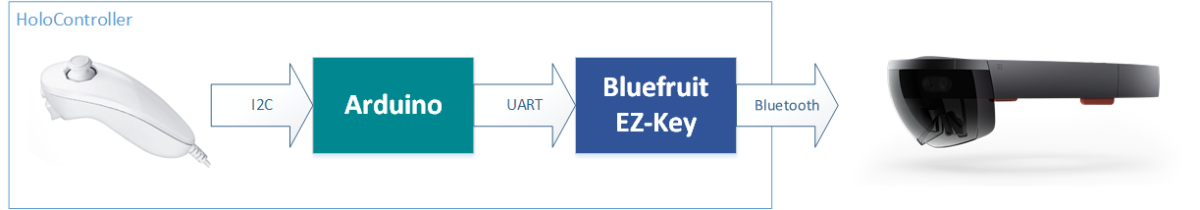
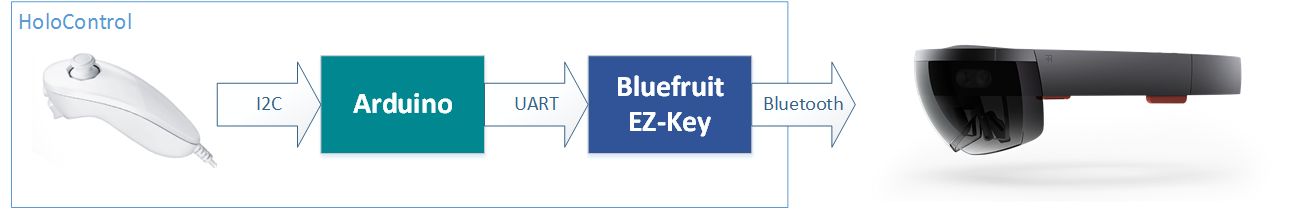
Add link to the list of USB HID codes

diff --git a/README.md b/README.md
@@ -5,16 +5,17 @@ HoloLens input device based on Wii Nunchuk controller.
 - Low latency, reaction time < 1/20 second
 - Easy to use in Unity, no external dependencies
 
-## Demo
+## Demo Video
 
 [![Alt text](https://img.youtube.com/vi/75GZE48Ib2U/0.jpg)](https://www.youtube.com/watch?v=75GZE48Ib2U)
 
 ## How it works
 
-![Hardware overview](https://raw.githubusercontent.com/cazacov/HoloControl/master/img/overview.png)
+[<img src="https://raw.githubusercontent.com/cazacov/HoloControl/master/img/overview.png" alt="Overview" width="860" height="140"/>](https://raw.githubusercontent.com/cazacov/HoloControl/master/img/overview.png "Overview")
+
 
 - Arduino board reads button state from nunchuk over I2C protocol.
-- Arduno translates key press events in HID codes and sends them to EZ-Key board over serial interface.
+- Arduno translates key press events in [USB HID codes](http://www.freebsddiary.org/APC/usb_hid_usages.php) and sends them to EZ-Key board over serial interface.
 - Bluefruit EZ-Key board appears like an external keyboard in the list of available Bluetooth devices on the HoloLens.
 - Standard Bluetooth pairing, no PIN required. If something goes wrong there is Pair button on the EZ-Key board to restart the connection.
 - For Unity scripts the HoloControler looks like normal key press events coming from a keyboard.
@@ -43,7 +44,7 @@ Wired version
 
 [<img src="https://raw.githubusercontent.com/cazacov/HoloControl/master/img/circuit.png" alt="Circuit diagram" />](https://raw.githubusercontent.com/cazacov/HoloControl/master/img/circuit.png "Circuit diagram")
 
-It can be made completely mobile by adding LiPo accumulator and charge controller, but then you'll need 3D printer to print bigger case.
+It's also possible to make it completely mobile by adding LiPo accumulator and charge controller, but then you'll need a 3D printer to print bigger case.
 
 Arduino stacked on the top of EZ-Key board. I put a piece of plastic between boards for electrical isolation.
 
@@ -90,6 +91,7 @@ if (UnityEngine.Input.GetKey(KeyCode.D))
 }
 ```
 
+Demo Unity project is included.
 
 
 ## Wired version
